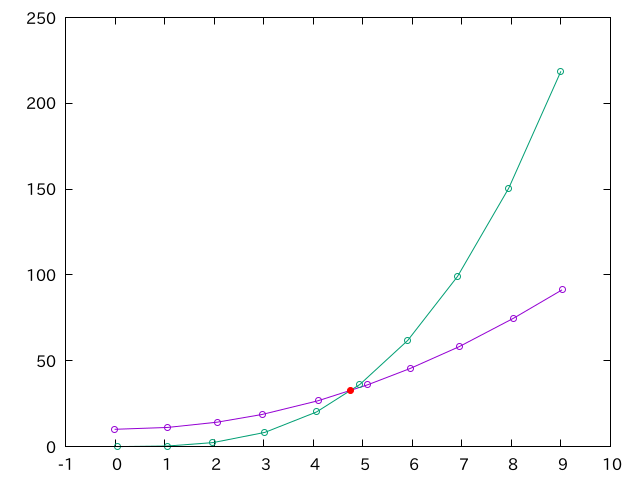
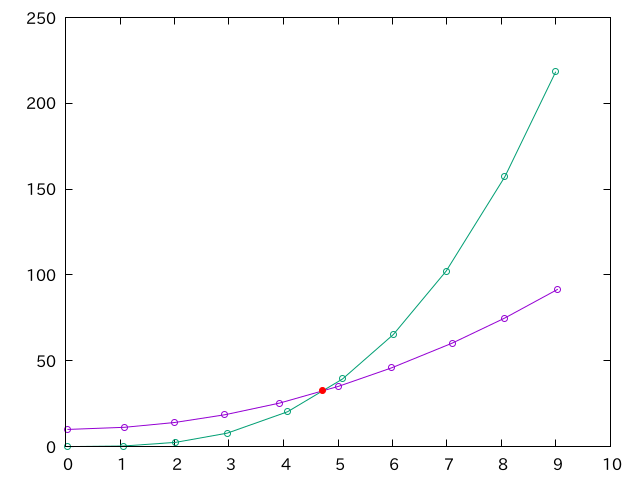
updates

diff --git a/intersect/find_intersect.rb b/intersect/find_intersect.rb
@@ -9,7 +9,7 @@ def intersect?(p1, p2, p3, p4)
   t2 = f(p1, p2, p4)
   t3 = f(p3, p4, p1)
   t4 = f(p3, p4, p2)
-  t1 * t2 < 0.0 and t3 * t4
+  t1 * t2 < 0.0 and t3 * t4 < 0.0
 end
 
 def intersection(p1, p2, p3, p4)
@@ -19,3 +19,34 @@ def intersection(p1, p2, p3, p4)
   y = t * p1.y + (1.0 - t) * p2.y
   return x, y
 end
+
+def read_file(filename)
+  File.read(filename).split(/\n/).map do |n|
+    x, y = n.split(/\s+/)
+    Point.new(x.to_f, y.to_f)
+  end
+end
+
+def find_intersection(file1, file2)
+  puts "reading #{file1}"
+  data1 = read_file(file1)
+  puts "reading #{file2}"
+  data2 = read_file(file2)
+  (data1.size - 1).times do |i|
+    p1 = data1[i]
+    p2 = data1[i + 1]
+    (data2.size - 1).times do |j|
+      p3 = data2[j]
+      p4 = data2[j + 1]
+      if intersect?(p1, p2, p3, p4)
+        return intersection(p1, p2, p3, p4)
+      end
+    end
+  end
+end
+
+open("intersection.dat", "w") do |f|
+  x, y = find_intersection("data1.dat", "data2.dat")
+  f.puts "#{x} #{y}"
+end
+puts "generated intersection.dat"

diff --git a/intersect/makedata.rb b/intersect/makedata.rb
@@ -1,5 +1,5 @@
-f1 = open("test1.dat", "w")
-f2 = open("test2.dat", "w")
+f1 = open("data1.dat", "w")
+f2 = open("data2.dat", "w")
 10.times do |i|
   x1 = i + rand * 0.2 - 0.1
   y1 = x1 ** 2.0 + 10.0 + rand * 0.2 - 0.1
@@ -8,3 +8,6 @@ f2 = open("test2.dat", "w")
   y2 = 0.3 * x2 ** 3.0
   f2.puts "#{x2} #{y2}"
 end
+
+puts "generated data1.dat"
+puts "generated data2.dat"

diff --git a/intersect/README.md b/intersect/README.md
@@ -1,14 +1,12 @@
 # はじめに
 
-二つの折れ線グラフがある時、そのグラフの交点を知りたいことがあります。具体的には異なるサイズのBinder比の交点とか。
+二つの折れ線グラフがある時、そのグラフの交点を知りたいことがあります。こんな感じです。
 
-で、そのためには「二つの線分の交差判定」をするコードと「交差する二つの線分の交点」を求めるコードが必要になるのですが、なんかこれ、必要になる度に毎回書いている気がするので、ここにまとめておきます。
+![intersection.png](intersection.png)
 
-ネットにも似たようなコードが落ちているんですが、ライセンスが不明瞭だったりするので、自分の公開コードに埋め込みづらかったりするんですね。
+典型的には異なるサイズのBinder比の交点を見つける時とかに必要です。
 
-というわけで、交差判定と交点を求めるアルゴリズムをちゃんと求めて、それをコードに落としてCC0で公開しました。
-
-ググってこの記事にたどり着いた人は好きに使ってくださいまし。
+で、そのためには「二つの線分の交差判定」をするコードと「交差する二つの線分の交点」を求めるコードが必要になるのですが、なんかこれ、必要になる度に毎回書いている気がするので、以下では交差判定と交点を求めるアルゴリズムを真面目に導出して、それをコードに落としてCC0で公開しました。
 
 なお、線分直上に点があったり、二つの線分が平行だったりといった条件は考慮していないので注意。また、やや冗長に書いているので、高速化が必要な場合は適宜修正してください。
 
@@ -201,7 +199,7 @@ y_4-y_2
 \end{pmatrix}
 $$
 
-です。$t, s$について解くと
+です。$t, s$について解く(両辺に$A^{-1}$をかける)と、
 
 $$
 \begin{pmatrix}
@@ -245,3 +243,68 @@ $$
 
 上記をそのままコードに落としましょう。
 
+```rb
+def intersection(p1, p2, p3, p4)
+  det = (p1.x - p2.x) * (p4.y - p3.y) - (p4.x - p3.x) * (p1.y - p2.y)
+  t = ((p4.y - p3.y) * (p4.x - p2.x) + (p3.x - p4.x) * (p4.y - p2.y)) / det
+  x = t * p1.x + (1.0 - t) * p2.x
+  y = t * p1.y + (1.0 - t) * p2.y
+  return x, y
+end
+```
+
+まぁ、そのままですね。
+
+## 折れ線グラフの交点
+
+なんかデータがこんな感じで与えられているとしましょう。
+
+```dat
+-0.00929403432032172 10.06733812455202
+1.059235593057012 11.146562883395475
+2.064831028312785 14.24963231445969
+2.968107972293056 18.723725728939
+4.0981278592926005 26.724011540146748
+5.099077600475496 36.01584720448775
+5.960053040855195 45.56438755538092
+6.9441326742759495 58.20967188095562
+8.050356615496234 74.89595746961379
+9.02282603720683 91.33504895073239
+```
+
+こんなファイルを二つ読み込んで、交点を返す関数`find_intersection`はこんな感じに書けるでしょう。
+
+```rb
+def read_file(filename)
+  File.read(filename).split(/\n/).map do |n|
+    x, y = n.split(/\s+/)
+    Point.new(x.to_f, y.to_f)
+  end
+end
+
+def find_intersection(file1, file2)
+  puts "reading #{file1}"
+  data1 = read_file(file1)
+  puts "reading #{file2}"
+  data2 = read_file(file2)
+  (data1.size - 1).times do |i|
+    p1 = data1[i]
+    p2 = data1[i + 1]
+    (data2.size - 1).times do |j|
+      p3 = data2[j]
+      p4 = data2[j + 1]
+      if intersect?(p1, p2, p3, p4)
+        return intersection(p1, p2, p3, p4)
+      end
+    end
+  end
+end
+```
+
+$O(N^2)$になってますが、点の数が多くなければ問題ないと思います。
+
+## まとめ
+
+線分の交差判定と交点を求めるアルゴリズムを導出して、コードに落としました。ネットにも似たようなコードが落ちているんですが、ライセンスが不明瞭だったりして、自分の公開コードに埋め込みづらかったりするんですよね。
+
+上記のコードはCC0で公開しているので、「線分　交点」「線分　交差」等のキーワードでググってこの記事にたどり着いた人は好きに使ってください。
